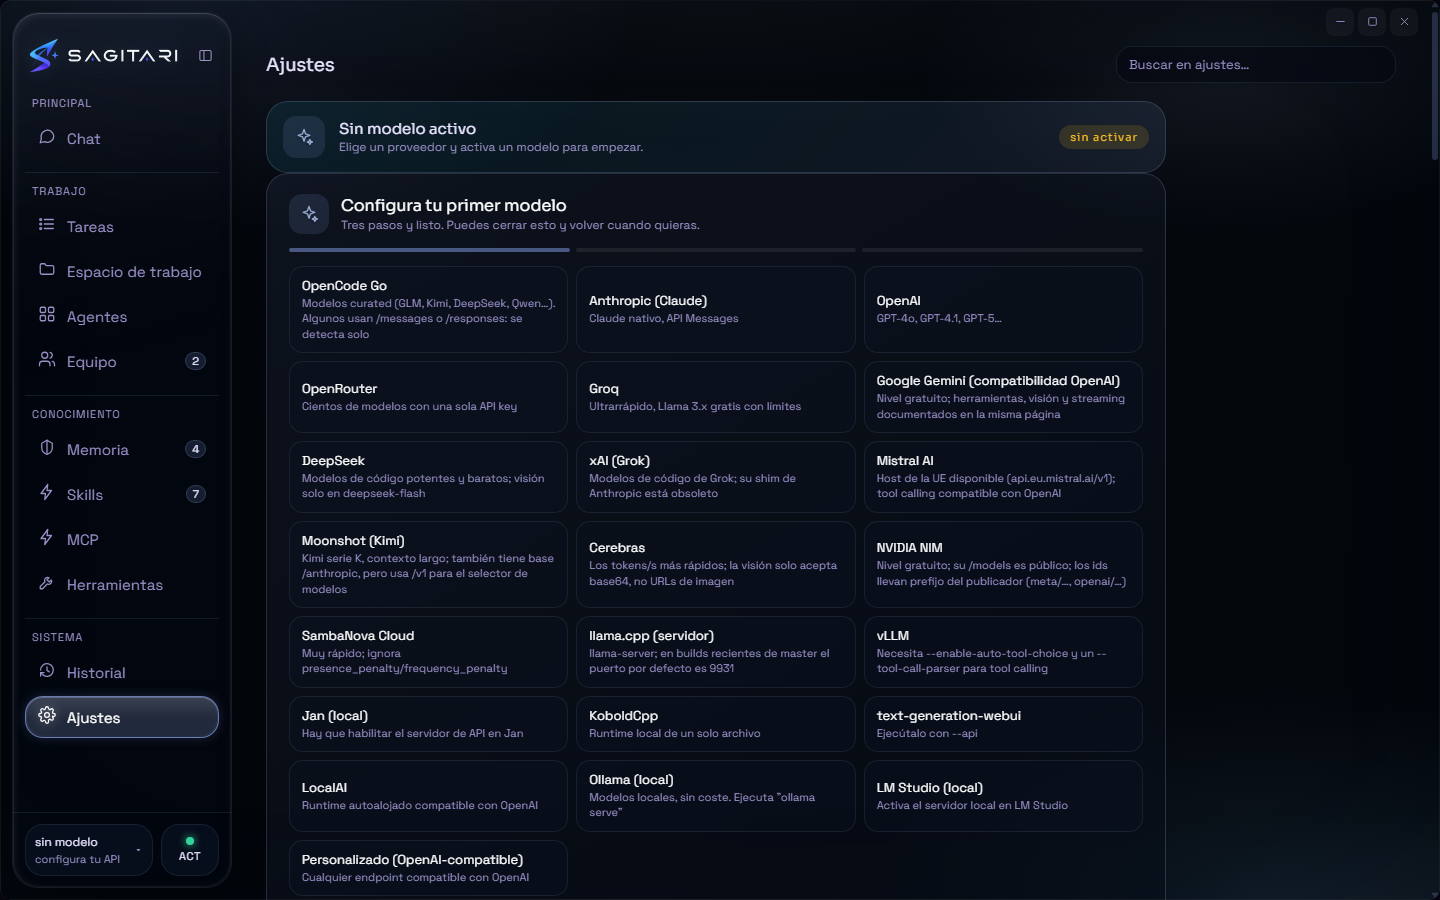
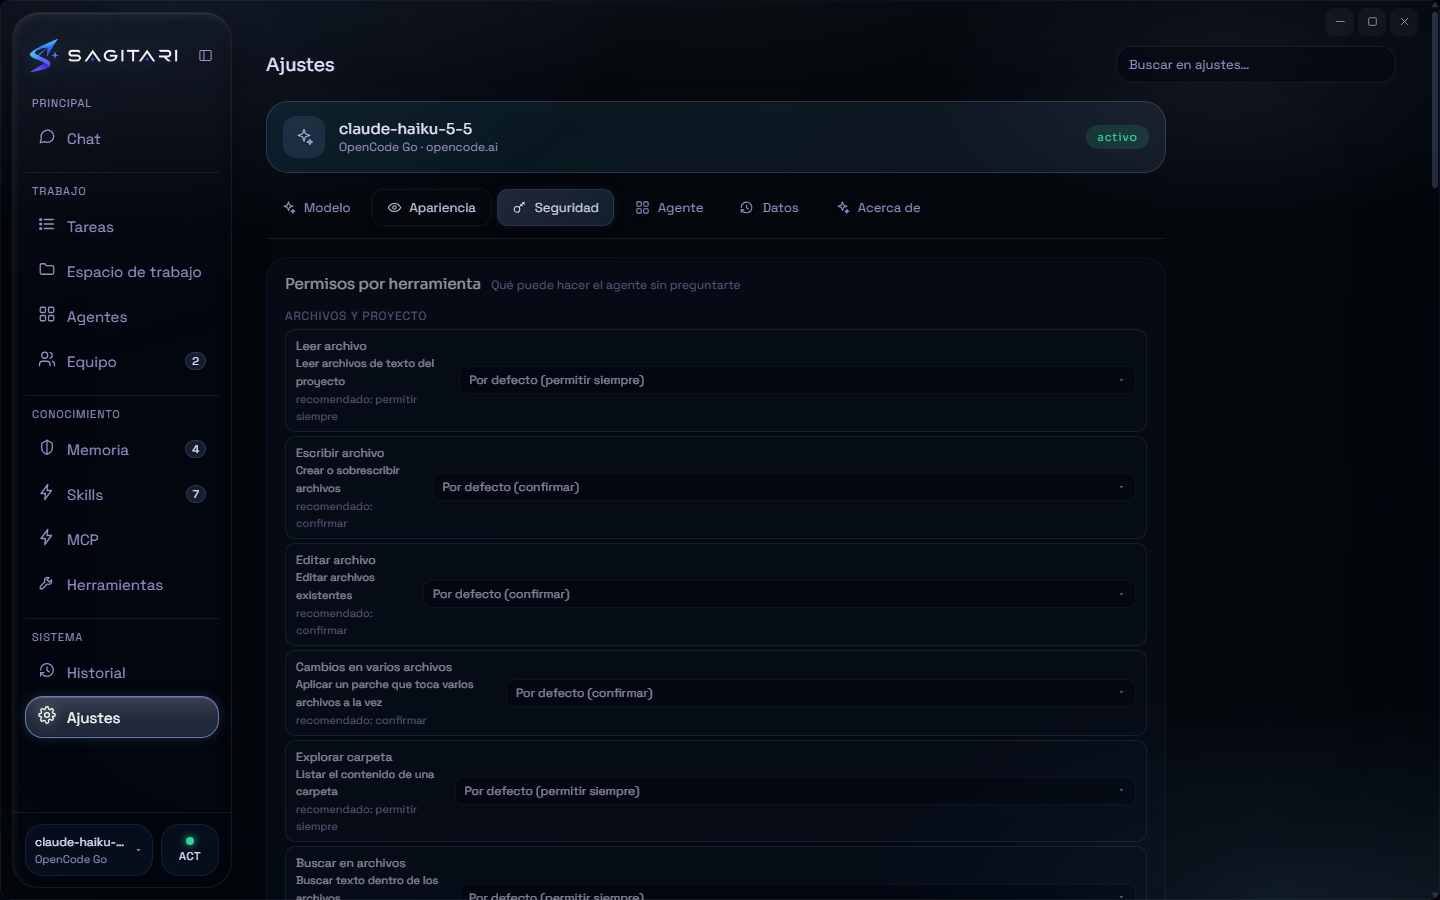
docs(capturas): Apariencia y Permisos ya no salen repetidas (y el perfil siembra un modelo)
El perfil de capturas no tenia proveedor activo, asi que Ajustes ensenaba el asistente de primer uso y TAPABA sus pestanas: las capturas de Apariencia y de Permisos salian con el panel de Modelo, identicas, y el pie de la app decia 'sin modelo' en todas las capturas del README.

Ahora el script siembra un proveedor de mentira con los valores del preset real (solo si el perfil no tiene ninguno) y deja GUARDADA la pestana antes de entrar en Ajustes, que es como la restaura la app; despues comprueba el panel como ya hacia. Verificado mirando las capturas: Seguridad ensena los permisos por herramienta y el pie, el modelo activo.

diff --git a/scripts/shot-cdp.js b/scripts/shot-cdp.js
@@ -236,6 +236,34 @@ async function esperarCdp(port, intentos = 60) {
   const env = Object.assign({}, process.env);
   delete env.ELECTRON_RUN_AS_NODE;
   env.SAGITARI_TEST_PROFILE = path.join(APP_DIR, '.perfil-shots');
+  /* Sembrar un modelo activo en el perfil de capturas. Sin él, Ajustes enseña el asistente
+     de primer uso y TAPA sus pestañas —las capturas de Apariencia y de Permisos salían con
+     el panel de Modelo, o sea repetidas— y el pie de la app dice «sin modelo» en todas las
+     capturas. Se escribe solo si el perfil no tiene proveedor; son los valores del preset
+     real y este perfil es de usar y tirar (no se llama a ningún sitio). */
+  try {
+    const perfil = env.SAGITARI_TEST_PROFILE;
+    fs.mkdirSync(perfil, { recursive: true });
+    const cfgFile = path.join(perfil, 'config.json');
+    const cfg = fs.existsSync(cfgFile) ? JSON.parse(fs.readFileSync(cfgFile, 'utf8')) : {};
+    if (!Array.isArray(cfg.providers) || !cfg.providers.length) {
+      const baseUrl = 'https://opencode.ai/zen/go/v1';
+      const apiKey = 'sk-demo';
+      cfg.providers = [{ id: 'opencode-go', name: 'OpenCode Go', baseUrl, apiKey, models: ['claude-haiku-5-5', 'gpt-5', 'glm-4-6'] }];
+      cfg.active = {
+        providerId: 'opencode-go',
+        name: 'OpenCode Go',
+        baseUrl,
+        apiKey,
+        model: 'claude-haiku-5-5',
+        temperature: 0.7,
+        vision: false,
+      };
+      fs.writeFileSync(cfgFile, JSON.stringify(cfg, null, 2));
+    }
+  } catch (e) {
+    console.error('  aviso: no pude sembrar el modelo del perfil de capturas:', e.message);
+  }
 
   const child = spawn(
     electron,
@@ -375,9 +403,16 @@ async function esperarCdp(port, intentos = 60) {
         if (v !== 'OK') console.error('  demo de equipo no sembrada:', v);
         await sleep(700);
       }
-      /* Los dos paneles de Ajustes: primero la vista, luego su pestaña. */
+      /* Los dos paneles de Ajustes: primero la vista, luego su pestaña. Y antes de entrar,
+         se deja GUARDADA la pestaña que se quiere: la vista la restaura al pintarse, así
+         que fijarla aquí hace la captura determinista —pulsar la pestaña y esperar dejaba
+         a veces el panel de Modelo, y la captura salía con el nombre del otro—. */
       const sub = SUBVISTAS[vista];
       if (sub) {
+        await send('Runtime.evaluate', {
+          expression: `(function(){ try { localStorage.setItem('sagi.setTab','${sub.panel}'); return 'OK'; } catch(e) { return 'NO_STORE'; } })()`,
+          returnByValue: true,
+        });
         const nav = await send('Runtime.evaluate', {
           expression: `(function(){ var b=document.querySelector('.navitem[data-view="${sub.nav}"]'); if(!b) return 'NO_NAV'; b.click(); return 'OK'; })()`,
           returnByValue: true,
